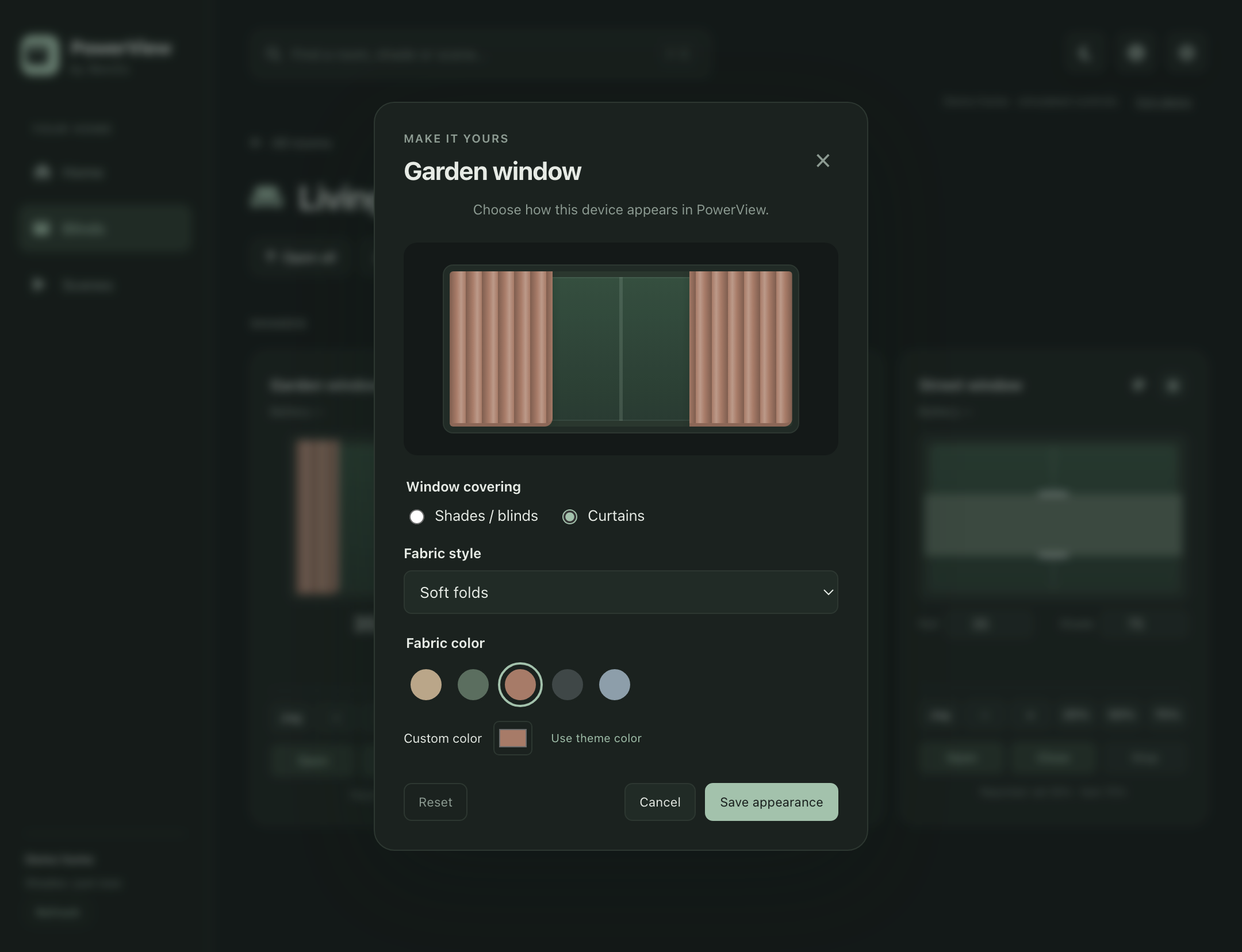
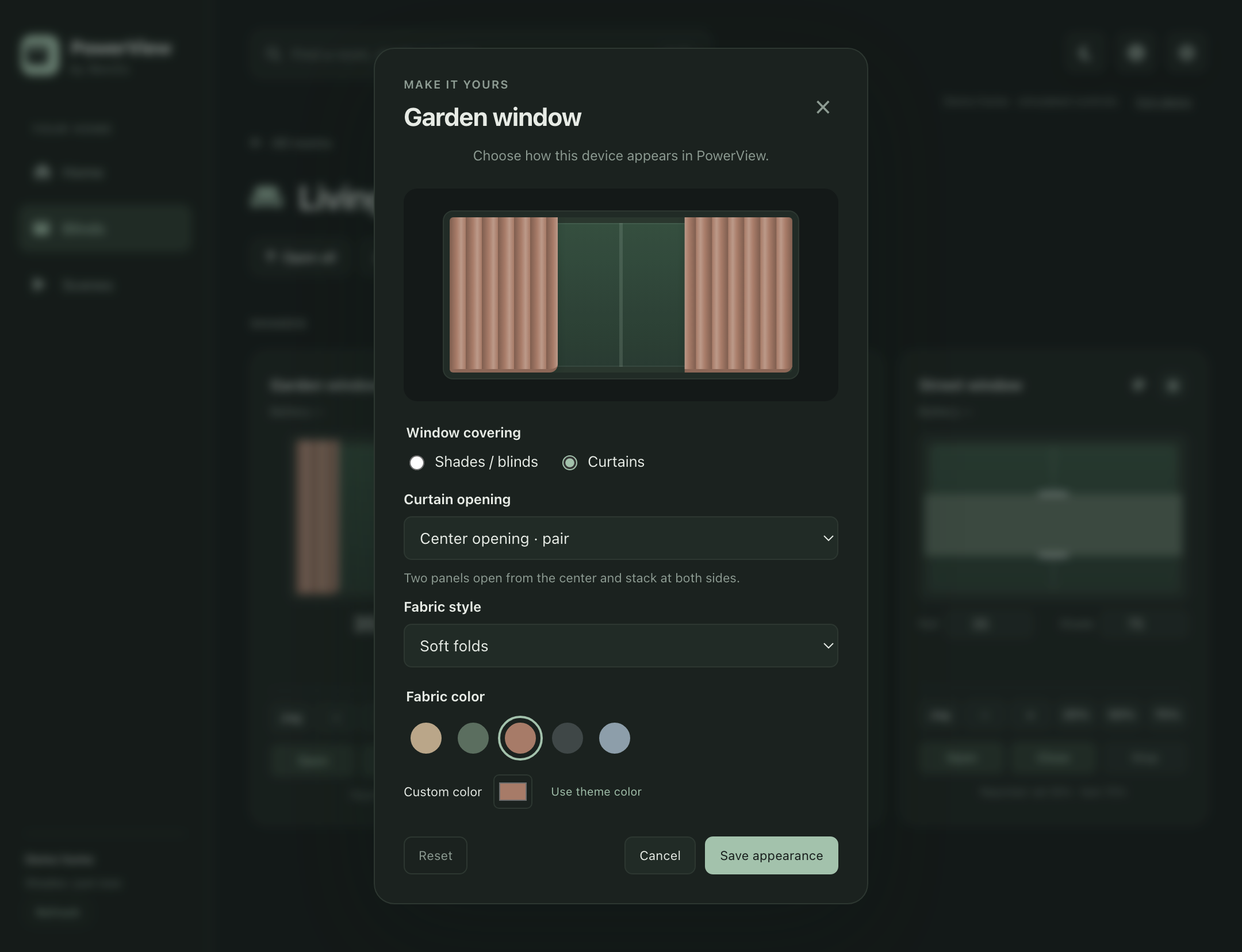
Add single-draw curtains and selectable demo covering types

diff --git a/src/renderer/shade-appearance.js b/src/renderer/shade-appearance.js
@@ -1,5 +1,5 @@
 function defaultShadeAppearance(shade) {
-    return { kind: shade.controls.kind === 'vertical' ? 'curtain' : 'shade', fabric: 'pleated', color: null };
+    return { kind: (shade.demoOriginalKind || shade.controls.kind) === 'vertical' ? 'curtain' : 'shade', fabric: 'pleated', color: null, draw: 'split' };
 }
 function shadeAppearanceFor(shade) {
     return appState?.config.appearances?.[appState.connection.address]?.[shade.id] || defaultShadeAppearance(shade);
@@ -16,14 +16,15 @@ function openShadeAppearance(id) {
         <p class="appearance-intro">Choose how this device appears in PowerView.</p>
         <div class="appearance-preview" aria-label="Appearance preview"><div class="shade-window-inner shade-window-inner--realistic motion-window"><div class="shade-window-glass shade-window-glass--realistic"></div><div class="shade-fabric motion-fabric"></div><div class="curtain-panel curtain-left"></div><div class="curtain-panel curtain-right"></div></div></div>
         <fieldset class="covering-choice"><legend>Window covering</legend><label><input type="radio" name="covering" value="shade"> Shades / blinds</label><label><input type="radio" name="covering" value="curtain"> Curtains</label></fieldset>
-        <p class="appearance-rail-note" hidden>Two-rail shades keep both rail controls in the shade view.</p>
+        <p class="appearance-rail-note" id="appearanceRailNote" hidden></p>
+        <label class="appearance-field curtain-draw-field" for="appearanceDraw">Curtain opening<select id="appearanceDraw"><option value="split">Center opening · pair</option><option value="left">Opens to the left · single curtain</option><option value="right">Opens to the right · single curtain</option></select><span class="appearance-draw-hint"></span></label>
         <label class="appearance-field" for="appearanceFabric">Fabric style<select id="appearanceFabric"><option value="pleated">Pleated</option><option value="roller">Smooth roller</option><option value="slatted">Slatted</option></select></label>
         <fieldset class="appearance-colors"><legend>Fabric color</legend><div class="fabric-swatches"></div><div class="custom-color-row"><label for="appearanceColor">Custom color</label><input type="color" id="appearanceColor"><button type="button" class="theme-fabric-color">Use theme color</button></div></fieldset>
         <p class="appearance-error" role="alert" hidden></p>
         <footer><button type="button" class="appearance-reset">Reset</button><button type="button" class="appearance-cancel">Cancel</button><button type="submit" class="appearance-save">Save appearance</button></footer>
     </form>`;
     dialog.querySelector('h2').textContent = shade.ptName;
-    const preview = dialog.querySelector('.motion-window'), fabric = dialog.querySelector('#appearanceFabric'), color = dialog.querySelector('#appearanceColor');
+    const preview = dialog.querySelector('.motion-window'), fabric = dialog.querySelector('#appearanceFabric'), color = dialog.querySelector('#appearanceColor'), draw = dialog.querySelector('#appearanceDraw');
     const swatches = [['Natural','#c4af92'], ['Sage','#627b69'], ['Clay','#b68471'], ['Charcoal','#465151'], ['Mist','#95a9b4']];
     for (const [name, value] of swatches) {
         const button = document.createElement('button'); button.type = 'button'; button.className = 'fabric-swatch';
@@ -32,20 +33,32 @@ function openShadeAppearance(id) {
     }
     function update() {
         for (const radio of dialog.querySelectorAll('[name="covering"]')) radio.checked = radio.value === draft.kind;
-        preview.dataset.covering = draft.kind; preview.dataset.fabric = draft.fabric;
+        preview.dataset.covering = draft.kind; preview.dataset.fabric = draft.fabric; preview.dataset.draw = draft.draw;
         preview.style.setProperty('--fabric-color', draft.color || '#627b69');
         preview.querySelector('.motion-fabric').style.height = '60%';
-        for (const panel of preview.querySelectorAll('.curtain-panel')) panel.style.width = '30%';
+        const panels = curtainGeometry.panels(60, draft.draw);
+        for (const side of ['left', 'right']) {
+            const panel = preview.querySelector(`.curtain-${side}`); panel.style.width = `${panels[side]}%`; panel.hidden = panels[side] === 0;
+        }
+        dialog.querySelector('.curtain-draw-field').hidden = draft.kind !== 'curtain'; draw.value = draft.draw;
+        dialog.querySelector('.appearance-draw-hint').textContent = draft.draw === 'split'
+            ? 'Two panels open from the center and stack at both sides.' : `One panel opens and stacks on the ${draft.draw}.`;
         fabric.value = draft.fabric; color.value = draft.color || '#627b69';
         const labels = draft.kind === 'curtain' ? ['Soft folds', 'Linen', 'Fine folds'] : ['Pleated', 'Smooth roller', 'Slatted'];
         [...fabric.options].forEach((option,index) => { option.textContent = labels[index]; });
         for (const button of dialog.querySelectorAll('.fabric-swatch')) button.setAttribute('aria-pressed', String(button.dataset.color === draft.color));
     }
-    if (shade.controls.kind === 'dual-rail') {
-        dialog.querySelector('[value="curtain"]').disabled = true; dialog.querySelector('.appearance-rail-note').hidden = false;
+    if ((shade.demoOriginalKind || shade.controls.kind) === 'dual-rail') {
+        const demo = appState?.connection.status === 'demo', note = dialog.querySelector('.appearance-rail-note');
+        dialog.querySelector('[value="curtain"]').disabled = !demo; note.hidden = false;
+        note.textContent = demo
+            ? 'Try either covering in demo. Choose Curtains for curtain controls, or Shades / blinds for both rails.'
+            : 'This device has two moving rails. Fabric styles and colors are available below; curtains need a single opening control.';
+        dialog.querySelector('.covering-choice').setAttribute('aria-describedby', note.id);
     }
     dialog.querySelectorAll('[name="covering"]').forEach(input => input.addEventListener('change', () => { draft.kind = input.value; reset = false; update(); }));
     fabric.addEventListener('change', () => { draft.fabric = fabric.value; reset = false; update(); });
+    draw.addEventListener('change', () => { draft.draw = draw.value; reset = false; update(); });
     color.addEventListener('input', () => { draft.color = color.value; reset = false; update(); });
     dialog.querySelector('.theme-fabric-color').addEventListener('click', () => { draft.color = null; reset = false; update(); });
     dialog.querySelector('.appearance-reset').addEventListener('click', () => { draft = defaultShadeAppearance(shade); reset = true; update(); });

diff --git a/src/renderer/shade-control.js b/src/renderer/shade-control.js
@@ -3,13 +3,14 @@ function createLiveShadeControl(shade, statusEl) {
     const dual = shade.controls.kind === 'dual-rail';
     const appearance = shadeAppearanceFor(shade);
     const curtains = appearance.kind === 'curtain' && !dual;
+    const curtainDraw = appearance.draw || 'split';
     const root = document.createElement('div');
     root.className = dual ? 'shade-unified-dual shade-unified-dual--tile motion-control' : 'shade-single-stack shade-single-tile motion-control';
     root.setAttribute('aria-live', 'off');
     const visual = document.createElement('div'); visual.className = 'shade-window-visual';
     visual.title = `Drag ${curtains ? 'horizontally' : 'vertically'} to choose a target. The fabric follows reported movement.`;
     const inner = document.createElement('div'); inner.className = 'shade-window-inner shade-window-inner--realistic motion-window';
-    inner.dataset.covering = curtains ? 'curtain' : 'shade'; inner.dataset.fabric = appearance.fabric;
+    inner.dataset.covering = curtains ? 'curtain' : 'shade'; inner.dataset.fabric = appearance.fabric; inner.dataset.draw = curtainDraw;
     if (appearance.color) inner.style.setProperty('--fabric-color', appearance.color);
     inner.innerHTML = '<div class="shade-window-glass shade-window-glass--realistic"></div><div class="shade-fabric motion-fabric"></div><div class="curtain-panel curtain-left"></div><div class="curtain-panel curtain-right"></div><div class="motion-target target-primary" hidden></div><div class="motion-target target-secondary" hidden></div>';
     visual.appendChild(inner); root.appendChild(visual);
@@ -74,7 +75,9 @@ function createLiveShadeControl(shade, statusEl) {
         if (valid) {
             const p = clamp(values.primary), s = dual ? Math.min(p, clamp(values.secondary)) : 0;
             fabric.style.top = `${s}%`; fabric.style.height = `${Math.max(0, p - s)}%`;
-            for (const panel of [leftCurtain, rightCurtain]) panel.style.width = `${4 + p * .46}%`;
+            const panels = curtainGeometry.panels(p, curtainDraw);
+            leftCurtain.style.width = `${panels.left}%`; rightCurtain.style.width = `${panels.right}%`;
+            leftCurtain.hidden = panels.left === 0; rightCurtain.hidden = panels.right === 0;
             inner.dataset.physicalPrimary = p.toFixed(2);
             if (dual) {
                 handles.secondary.style.top = `${s}%`; handles.primary.style.top = `${p}%`;
@@ -85,11 +88,12 @@ function createLiveShadeControl(shade, statusEl) {
         const showTarget = !!draft || !!target && Object.keys(target).length > 0;
         const suffix = inputsRow.querySelector('.shade-tile-pct-suffix');
         if (suffix) suffix.textContent = showTarget ? 'target % closed' : '% closed';
-        primaryMarker.hidden = !showTarget; secondaryMarker.hidden = !showTarget || (!dual && !curtains);
+        primaryMarker.hidden = !showTarget; secondaryMarker.hidden = !showTarget || (!dual && (!curtains || curtainDraw !== 'split'));
         if (showTarget) {
             if (curtains) {
-                primaryMarker.style.left = `${4 + chosen.primary * .46}%`;
-                secondaryMarker.style.right = `${4 + chosen.primary * .46}%`;
+                const panels = curtainGeometry.panels(chosen.primary, curtainDraw);
+                primaryMarker.style.left = `${curtainDraw === 'right' ? 100 - panels.right : panels.left}%`;
+                secondaryMarker.style.right = `${panels.right}%`;
             } else {
                 primaryMarker.style.top = `${chosen.primary}%`;
                 secondaryMarker.style.top = `${chosen.secondary}%`;
@@ -155,7 +159,7 @@ function createLiveShadeControl(shade, statusEl) {
     function chooseAt(event) {
         const { rect, axis, side } = drag;
         const fraction = curtains ? (event.clientX - rect.left) / rect.width : (event.clientY - rect.top) / rect.height;
-        const value = curtains ? ((side === 'left' ? fraction : 1 - fraction) * 100 - 4) / .46 : fraction * 100;
+        const value = curtains ? curtainGeometry.positionAt(fraction, curtainDraw, side) : fraction * 100;
         draft[axis] = bounded(value, axis, draft); sync();
     }
     function onMove(event) { if (drag && event.pointerId === drag.id) { event.preventDefault(); chooseAt(event); } }
@@ -195,7 +199,8 @@ function createLiveShadeControl(shade, statusEl) {
         handles[axis].addEventListener('keydown', event => {
             if (!canEdit() || !['ArrowUp', 'ArrowDown', 'ArrowLeft', 'ArrowRight', 'Home', 'End'].includes(event.key)) return;
             event.preventDefault(); draft = { ...selection() };
-            const next = event.key === 'Home' ? 0 : event.key === 'End' ? 100 : draft[axis] + (['ArrowUp','ArrowLeft'].includes(event.key) ? -1 : 1);
+            const horizontalReverse = curtains && curtainDraw === 'right' && ['ArrowLeft','ArrowRight'].includes(event.key) ? -1 : 1;
+            const next = event.key === 'Home' ? 0 : event.key === 'End' ? 100 : draft[axis] + (['ArrowUp','ArrowLeft'].includes(event.key) ? -1 : 1) * horizontalReverse;
             draft[axis] = bounded(next, axis, draft); commit(axis);
         });
     }

diff --git a/src/main/demo-gateway.js b/src/main/demo-gateway.js
@@ -1,9 +1,9 @@
 const { normalizeSnapshot, GatewayError } = require('./gateway-client');
-const { validatePositions } = require('./capabilities');
+const { capabilitiesFor, validatePositions } = require('./capabilities');
 const { project } = require('../shared/shade-motion');
 
 class DemoGateway {
-  constructor({ now = Date.now, latency = 180, fullTravelMs = 8000 } = {}) {
+  constructor({ now = Date.now, latency = 180, fullTravelMs = 8000, appearances = {} } = {}) {
     this.address = 'demo'; this.disposed = false;
     this.now = now; this.latency = latency; this.fullTravelMs = fullTravelMs; this.motions = new Map();
     this.data = {
@@ -24,13 +24,46 @@ class DemoGateway {
         { id: 105, ptName: 'Good night', roomIds: [1, 2, 3, 4] }],
       colors: { colors: ['#8c9c7a', '#c1a37c', '#9e92ad', '#829daa'] }, active: [],
     };
+    this.originalShades = new Map(this.data.shades.map(shade => [String(shade.id), structuredClone(shade)]));
+    this.railPositions = new Map();
+    for (const [id, appearance] of Object.entries(appearances)) {
+      if (this.originalShades.has(id)) this.setAppearance(id, appearance);
+    }
   }
   async wait() {
     await new Promise(resolve => setTimeout(resolve, this.latency));
     if (this.disposed) throw new GatewayError('Connection changed.', 'CANCELLED');
   }
   async identify() { return { address: 'demo', name: 'Demo home', role: 'Demo' }; }
-  async getSnapshot() { await this.wait(); this.sync(); return normalizeSnapshot(structuredClone(this.data), this.address); }
+  snapshot() {
+    this.sync(); const snapshot = normalizeSnapshot(structuredClone(this.data), this.address);
+    for (const shade of snapshot.shades) shade.demoOriginalKind = capabilitiesFor(this.originalShades.get(shade.id)).kind;
+    return snapshot;
+  }
+  async getSnapshot() { await this.wait(); return this.snapshot(); }
+  appearanceChangesType(id, appearance) {
+    const original = this.originalShades.get(id), shade = this.data.shades.find(item => String(item.id) === id);
+    if (!original || !shade || capabilitiesFor(original).kind !== 'dual-rail') return false;
+    return shade.type !== (appearance?.kind === 'curtain' ? 69 : original.type);
+  }
+  setAppearance(id, appearance) {
+    if (!this.appearanceChangesType(id, appearance)) return null;
+    this.sync();
+    const shade = this.data.shades.find(item => String(item.id) === id);
+    clearTimeout(this.motions.get(shade.id)?.timer); this.motions.delete(shade.id);
+    // A demo may change mechanism; preserve the uncovered area when converting.
+    if (appearance?.kind === 'curtain') {
+      this.railPositions.set(id, shade.positions.secondary);
+      shade.positions = { primary: Math.min(1, shade.positions.primary + shade.positions.secondary) };
+      shade.type = 69;
+    } else {
+      const opening = shade.positions.primary;
+      const secondary = Math.min(opening, this.railPositions.get(id) ?? this.originalShades.get(id).positions.secondary);
+      shade.positions = { primary: opening - secondary, secondary };
+      shade.type = this.originalShades.get(id).type;
+    }
+    return this.snapshot().shades.find(item => item.id === id);
+  }
   startEvents(onEvent, onStatus) { this.onEvent = onEvent; onStatus('open'); }
   emit(evt, shade, extra = {}) {
     if (!this.disposed) this.onEvent?.({ evt, id: shade.id, isoDate: new Date(this.now()).toISOString(),

diff --git a/src/main/controller.js b/src/main/controller.js
@@ -22,7 +22,7 @@ class Controller extends EventEmitter {
   async connect(input, { demo = false } = {}) {
     const address = demo ? 'demo' : normalizeAddress(input);
     const attempt = ++this.attempt;
-    const candidate = demo ? new DemoGateway() : this.clientFactory(address);
+    const candidate = demo ? new DemoGateway({ appearances: this.store.get().appearances?.demo }) : this.clientFactory(address);
     if (!this.client) { this.state.connection = { status: 'connecting', address, error: null }; this.publish(); }
     try {
       const identity = await candidate.identify();
@@ -226,11 +226,25 @@ class Controller extends EventEmitter {
     const shade = this.state.snapshot?.shades.find(item => item.id === id);
     if (!shade) throw new Error('This shade is no longer available.');
     const value = appearance === null ? null : cleanAppearance(appearance);
-    if (value?.kind === 'curtain' && shade.controls.kind === 'dual-rail') throw new Error('Two-rail shades need the shade view to keep both rails visible.');
+    const demo = this.state.connection.status === 'demo' && this.client instanceof DemoGateway;
+    if (value?.kind === 'curtain' && shade.controls.kind === 'dual-rail' && !demo) throw new Error('This device has two moving rails. Choose a fabric style or color; curtain controls require a single opening control.');
+    if (demo && this.client.appearanceChangesType(id, value) && Object.keys(this.state.pending).length) {
+      throw new Error('Wait for the demo command to finish sending, then save the covering.');
+    }
     const config = this.store.get(), address = this.state.connection.address;
     config.appearances ||= {}; config.appearances[address] ||= {};
     if (value) config.appearances[address][id] = value; else delete config.appearances[address][id];
-    this.state.config = this.store.save(config); this.publish(); return this.getState();
+    this.state.config = this.store.save(config);
+    const changed = demo ? this.client.setAppearance(id, value) : null;
+    if (changed) {
+      this.state.snapshot.shades[this.state.snapshot.shades.findIndex(item => item.id === id)] = changed;
+      clearTimeout(this.motionTimers.get(id)); this.motionTimers.delete(id);
+      delete this.state.motions[id]; delete this.state.targets[id];
+      delete this.state.feedback[`shade:${id}`]; delete this.state.feedback[`stop:${id}`];
+      this.positionGuards.delete(id); this.eventTimes.delete(id);
+      this.eventRevision = (this.eventRevision || 0) + 1; this.shadeRevisions.set(id, this.eventRevision);
+    }
+    this.publish(); return this.getState();
   }
   resetMotion() {
     for (const timer of this.motionTimers.values()) clearTimeout(timer);

diff --git a/views/index.html b/views/index.html
@@ -120,7 +120,7 @@
             <h2 class="info-help-h2">Blinds</h2>
             <p>Pick a <b>room</b>, then adjust each shade. Rooms can be sorted by gateway order, A–Z, or recent. Drag to choose the dashed target, then release to move. The solid fabric follows movement; between gateway reports its position is marked approximate. The final report settles the graphic. Supported dual shades retain separate top and bottom rail controls.</p>
             <h2 class="info-help-h2">Appearance</h2>
-            <p>Use the <b>palette icon</b> on a shade to choose blinds or curtains, fabric style and color. Curtains drag horizontally; blinds drag vertically. Choices are saved per device and home. Two-rail devices keep the shade view so both rails remain visible. Reset restores the default appearance.</p>
+            <p>Use the <b>palette icon</b> on a shade to choose blinds or curtains, fabric style and color. For curtains, choose a <b>center-opening pair</b> or a <b>single curtain opening to the left or right</b>. Curtains drag horizontally; blinds drag vertically. Choices are saved per device and home. Real two-rail devices keep both rails visible. Demo devices can switch to curtains and back; Reset restores their original controls and appearance.</p>
 
             <h2 class="info-help-h2">Scenes</h2>
             <p>Use <b>Scenes</b> in the navigation to run gateway scenes. Star favorites and use recent chips for quick access.</p>
@@ -145,6 +145,7 @@
 </div>
 
 <script src="../src/shared/shade-motion.js"></script>
+<script src="../src/shared/curtain-geometry.js"></script>
 <script src="../src/renderer/renderer.js"></script>
 <script src="../src/renderer/shade-appearance.js"></script>
 <script src="../src/renderer/shade-control.js"></script>

diff --git a/src/main/config-store.js b/src/main/config-store.js
@@ -4,8 +4,9 @@ const { normalizeAddress } = require('./gateway-client');
 const defaults = () => ({ schemaVersion: 2, ipAddress: '', theme: 'light', closeToTray: false, favorites: {}, recent: {}, appearances: {}, roomSort: 'default', prefsMigrated: false });
 function cleanAppearance(value) {
   if (!value || !['shade', 'curtain'].includes(value.kind) || !['pleated', 'roller', 'slatted'].includes(value.fabric)
-    || value.color !== null && !/^#[a-f0-9]{6}$/i.test(value.color)) throw new Error('Choose a valid shade style and fabric color.');
-  return { kind: value.kind, fabric: value.fabric, color: value.color };
+    || value.color !== null && !/^#[a-f0-9]{6}$/i.test(value.color)
+    || value.draw !== undefined && !['split', 'left', 'right'].includes(value.draw)) throw new Error('Choose a valid shade style, curtain opening and fabric color.');
+  return { kind: value.kind, fabric: value.fabric, color: value.color, draw: value.draw ?? 'split' };
 }
 function cleanConfig(raw) {
   if (!raw || typeof raw !== 'object' || Array.isArray(raw)) throw new Error('Invalid settings');

diff --git a/src/shared/curtain-geometry.js b/src/shared/curtain-geometry.js
@@ -1,0 +1,17 @@
+(function (root, factory) {
+    if (typeof module === 'object' && module.exports) module.exports = factory();
+    else root.curtainGeometry = factory();
+})(typeof window === 'object' ? window : globalThis, function () {
+    const stack = 4;
+    function panels(closed, draw = 'split') {
+        const value = Math.max(0, Math.min(100, closed));
+        if (draw === 'left') return { left: stack + value * .96, right: 0 };
+        if (draw === 'right') return { left: 0, right: stack + value * .96 };
+        return { left: stack + value * .46, right: stack + value * .46 };
+    }
+    function positionAt(fraction, draw = 'split', side = 'left') {
+        const fromRight = draw === 'right' || draw === 'split' && side === 'right';
+        return ((fromRight ? 1 - fraction : fraction) * 100 - stack) / (draw === 'split' ? .46 : .96);
+    }
+    return { panels, positionAt };
+});

diff --git a/assets/shade-controls.css b/assets/shade-controls.css
@@ -39,6 +39,8 @@
 .covering-choice input { accent-color: var(--accent); }
 .covering-choice label:has(:disabled) { opacity: .5; cursor: default; }
 .appearance-field { display: flex; flex-direction: column; gap: 8px; }
+.appearance-field[hidden], .curtain-panel[hidden] { display: none; }
+.appearance-draw-hint { color: var(--text-muted); font-size: 11px; font-weight: 400; line-height: 1.4; }
 .appearance-field select { padding: 9px; border: 1px solid var(--border); background: var(--surface-hover); color: var(--text); border-radius: 7px; }
 .fabric-swatches { display: flex; gap: 10px; padding: 4px; }
 .fabric-swatch { width: 31px; height: 31px; border-radius: 50%; border: 2px solid var(--surface); cursor: pointer; }

diff --git a/docs/VALIDATION.md b/docs/VALIDATION.md
@@ -3,11 +3,11 @@
 The supplied local application is the baseline for this work. The corrected [evaluation](EVALUATION.md) distinguishes its existing features from remaining defects and future ideas.
 
 - `npm run check`: all application, script and test JavaScript parses; referenced UI resources exist.
-- `npm test`: 30 focused tests pass. Coverage includes finite requests, HTTP failures, malformed responses, cancellation, secondary-gateway rejection, per-home favorites, configuration recovery and legacy migration, partial group failures, Stop during movement, SSE chunking and subnet boundaries. Motion tests cover stale reads, late acknowledgments, event ordering, missing/invalid travel times, connection loss, simulated travel, intermediate Stop and per-home appearance persistence without motor commands.
-- `npm run smoke`: 20 native Electron checks pass on macOS arm64 with Electron 44.4.1. The test uses a temporary profile, demo data and a loopback HTTP/SSE fixture. It covers renderer isolation, percentage presets, numeric entry, stable drag targets during refresh, pointer cancellation, continuous demo travel, intermediate Stop, saved curtain appearance, horizontal curtain dragging, type 9 dual rails, keyboard controls, pinning, scene activation, navigation races, modal focus, dark theme, narrow/zoomed layouts, command search and Escape behavior, HTTP errors, acknowledgments, SSE updates and invalid IDs. The HTTP/SSE fixture also verifies travel-time animation, stale-read protection and settlement at the final reported position. No renderer errors were recorded. [Machine-readable results](native-smoke-results.json).
+- `npm test`: 34 focused tests pass. Coverage includes finite requests, HTTP failures, malformed responses, cancellation, secondary-gateway rejection, per-home favorites, configuration recovery and legacy migration, partial group failures, Stop during movement, SSE chunking and subnet boundaries. Motion tests cover stale reads, late acknowledgments, event ordering, missing/invalid travel times, connection loss, simulated travel, intermediate Stop and per-home appearance persistence without motor commands. Curtain coverage includes both single-draw directions, paired geometry, existing-settings migration, demo mechanism changes and restoration, persistence across reconnection, pending-command handling and preservation of real hardware controls.
+- `npm run smoke`: 23 native Electron checks pass on macOS arm64 with Electron 44.4.1. The test uses a temporary profile, demo data and a loopback HTTP/SSE fixture. It covers renderer isolation, percentage presets, numeric entry, stable drag targets during refresh, pointer cancellation, continuous demo travel, intermediate Stop, saved curtain appearance, horizontal curtain dragging, type 9 dual rails, keyboard controls, pinning, scene activation, navigation races, modal focus, dark theme, narrow/zoomed layouts, command search and Escape behavior, HTTP errors, acknowledgments, SSE updates and invalid IDs. Bedroom left explicitly switches to curtains, tests both single-draw directions and keyboard movement, and resets to two rail controls. The HTTP/SSE fixture also verifies travel-time animation, stale-read protection and settlement at the final reported position. No renderer errors were recorded. [Machine-readable results](native-smoke-results.json).
 - `npm audit`: the upgraded lockfile had zero reported vulnerabilities when checked on 16 September 2026; dependencies are unchanged in this increment. The original local baseline had 27 affected package entries; its audit is retained separately. Audit counts are not a security certification.
 - `npm run package`: generated a macOS arm64 app bundle under `release/PowerView-darwin-arm64/PowerView.app`. It uses local resources and an ASAR archive. No signed/notarized installer is being published.
-- Native [Home](screenshots/home-light.png), [dark room](screenshots/room-dark.png), [narrow room](screenshots/room-narrow.png), [moving shade](screenshots/shade-moving.png) and [appearance editor](screenshots/appearance-editor.png) captures were inspected.
+- Native [Home](screenshots/home-light.png), [dark room](screenshots/room-dark.png), [narrow room](screenshots/room-narrow.png), [moving shade](screenshots/shade-moving.png), [appearance editor](screenshots/appearance-editor.png) and [single-draw curtain editor](screenshots/single-draw-editor.png) captures were inspected.
 
 The original source directory remains unchanged. The app name and user-data identity remain PowerView. The legacy prefs file is retained during migration. Demo launched with `--demo` uses a separate profile; the preview opened for review uses an explicit temporary/workspace profile.
 
@@ -15,4 +15,4 @@ Physical movement has not been tested. Animation between gateway reports is an e
 
 Routes and capability mappings were cross-checked against the [aio-powerview-api reference](https://github.com/sander76/aio-powerview-api/blob/master/aiopvapi/resources/shade.py), its [scene resource](https://github.com/sander76/aio-powerview-api/blob/master/aiopvapi/resources/scene.py) and [Home Assistant integration documentation](https://www.home-assistant.io/integrations/hunterdouglas_powerview/). The reference is guidance rather than proof of hardware compatibility. Renderer isolation follows [Electron's guidance](https://www.electronjs.org/docs/latest/tutorial/security).
 
-The draft is version `1.1.0-beta.2` to make its field-validation status clear. The pull request integrates the current local app, reliability work, desktop redesign, smoother movement and per-device appearance settings. Scheduling, scene previews and automation remain future work.
+The draft is version `1.1.0-beta.3` to make its field-validation status clear. The pull request integrates the current local app, reliability work, desktop redesign, smoother movement, per-device appearance settings and single-draw curtains. Scheduling, scene previews and automation remain future work.

diff --git a/docs/MOTION_AND_APPEARANCE.md b/docs/MOTION_AND_APPEARANCE.md
@@ -14,13 +14,16 @@ Demo mode simulates travel and emits the same motion-event shape. It supports in
 
 ## Appearance settings
 
-Select the palette button beside a shade's name. Choose shades/blinds or split curtains, then a fabric style and color. The preview updates immediately; Save appearance applies it to the card and persists it for that device and gateway. Cancel leaves the previous appearance intact. Reset restores the default when saved.
+Select the palette button beside a shade's name. Choose shades/blinds or curtains, then a fabric style and color. Curtains offer a center-opening pair or a single-draw curtain that opens and stacks on the left or right. The preview updates immediately; Save appearance applies it to the card and persists it for that device and gateway. Cancel leaves the previous appearance intact. Reset restores the default when saved. Existing saved curtains default to the center-opening pair.
 
 - Shades/blinds: pleated, smooth roller or slatted fabric; vertical target dragging.
-- Curtains: soft folds, linen or fine folds; horizontal target dragging with both panels moving together.
+- Curtains: soft folds, linen or fine folds; horizontal dragging and animation follow the chosen opening. A pair moves both panels together; a single curtain spans the window from its selected stacking side. Left/right arrow keys follow the fabric edge, while Home opens fully and End closes fully.
 - Colors: Natural, Sage, Clay, Charcoal and Mist, a custom color picker, or the theme color.
-- Two-rail shades: texture and color choices retain both rail controls; curtain mode is unavailable for these devices.
+- Real two-rail shades: texture and color choices retain both rail controls. The editor explains why curtain controls are unavailable for this mechanism.
+- Demo two-rail shades, including Bedroom left: Curtains switches the simulated mechanism to a curtain, preserving the uncovered area. Shades / blinds or Reset restores both rail controls. The choice survives restarting demo. Pending commands must finish sending before a mechanism switch; active travel is cleared when switching mechanisms.
 
-Appearance changes affect the drawing only. They send no motor command and do not change capability validation or the gateway's device type. The editor is available on the visual standard, top-down, vertical and dual-rail controls; tilt-only and overlapped mechanisms retain their existing controls. Single-sided curtains and additional stacking arrangements are possible future additions.
+Appearance changes send no motor command and do not change a real gateway's device type or capability validation. The demo may change its simulated mechanism to let every demo shade try curtain controls. The editor is available on the visual standard, top-down, vertical and dual-rail controls; tilt-only and overlapped mechanisms retain their existing controls.
 
 ![Appearance editor](screenshots/appearance-editor.png)
+
+![Single-draw curtain editor on Bedroom left](screenshots/single-draw-editor.png)

diff --git a/docs/EVALUATION.md b/docs/EVALUATION.md
@@ -104,7 +104,7 @@ Scheduling, automatic glare control and natural-language control should follow c
 
 The review branch now includes the new layout and light/dark visual system, compact shade controls, a Home dashboard with pinned shades and existing favorite scenes, whole-home shortcuts, room shortcuts, and name search for rooms, shades and scenes. It also includes the isolation, request handling, configuration recovery, percentage, group-result and navigation fixes described above. Home, background control, demo and search in the idea table are now implemented in this branch. The table records the original roadmap; scene previews, saved custom groups, activity history and automation remain future ideas. See the validation record for tested behavior and hardware limits.
 
-The 17 September motion update addresses the reported jump between old and selected positions. A separate dashed target remains stable while dragging; the fabric follows reported movement or an explicitly approximate gateway travel-time animation. Stale reads cannot rewind active travel, and final reports confirm settlement. Demo now simulates travel and intermediate Stop. A palette editor adds per-device shades/blinds or curtains, textures and custom colors with a live preview and saved preferences per home. Two-rail shades retain both rails and support texture/color changes. These behaviors pass 30 core tests and 20 native Electron checks, including a loopback HTTP/SSE fixture. Exact synchronization with real hardware remains unverified. See [movement and appearance](MOTION_AND_APPEARANCE.md) and the [validation record](VALIDATION.md).
+The 17 September motion update addresses the reported jump between old and selected positions. A separate dashed target remains stable while dragging; the fabric follows reported movement or an explicitly approximate gateway travel-time animation. Stale reads cannot rewind active travel, and final reports confirm settlement. Demo now simulates travel and intermediate Stop. A palette editor adds per-device shades/blinds or curtains, textures and custom colors with a live preview and saved preferences per home. Curtains can open from the center as a pair, or use a single panel opening to the left or right. Real two-rail shades retain both rails and support texture/color changes. Demo two-rail shades, including Bedroom left, can switch to curtains and back, with Reset restoring their original controls. These behaviors pass 34 core tests and 23 native Electron checks, including a loopback HTTP/SSE fixture. Exact synchronization with real hardware remains unverified. See [movement and appearance](MOTION_AND_APPEARANCE.md) and the [validation record](VALIDATION.md).
 
 **Evidence and limits**
 

diff --git a/docs/IMPLEMENTATION_STATUS.md b/docs/IMPLEMENTATION_STATUS.md
@@ -4,7 +4,7 @@ The original source folder and its uncommitted changes remain untouched. A basel
 
 Implemented: shared gateway state, restricted Electron bridge, finite requests and cancellation, per-home preferences and legacy migration, capability-aware control, consistent closed percentages, group failure results, immediate Stop, Home/pinned shades, isolated demo, direct tray scene execution, local icons, persistent navigation and modal/rail keyboard improvements. The redesign adds a desktop sidebar, warm neutral and forest themes, compact textured shade illustrations, whole-home Home actions, room shortcuts, prioritized pinned controls and keyboard search across rooms, shades and scenes. Narrow windows use bottom navigation.
 
-The 17 September update separates draggable targets from the movement graphic, guards against stale refreshes and late acknowledgments, and animates travel from gateway motion events when a travel time is supplied. Estimated progress is labeled; final reports settle the position. Demo mode now simulates travel, retargeting and intermediate Stop. A per-device appearance editor adds shades/blinds or split curtains, fabric textures, preset/custom colors, preview and reset, persisted separately for each home. Two-rail devices keep both rail controls and offer fabric/color choices. See MOTION_AND_APPEARANCE.md for behavior and limits. Validation passes 30 core tests and 20 native Electron checks.
+The 17 September update separates draggable targets from the movement graphic, guards against stale refreshes and late acknowledgments, and animates travel from gateway motion events when a travel time is supplied. Estimated progress is labeled; final reports settle the position. Demo mode now simulates travel, retargeting and intermediate Stop. A per-device appearance editor adds shades/blinds or curtains, fabric textures, preset/custom colors, preview and reset, persisted separately for each home. Curtains can use a center-opening pair or a single-draw panel opening to the left or right. Real two-rail devices retain both rail controls and offer fabric/color choices; demo two-rail devices can switch to curtain controls and back. See MOTION_AND_APPEARANCE.md for behavior and limits. Validation passes 34 core tests and 23 native Electron checks.
 
 Retained: visual shade dragging and dual grips, Jog, fine adjustment, scenes, favorites, recents, room sorting, room color indicators/icons, theme switching, connection freshness, live events, manual setup, discovery, Swagger tools and macOS build configuration. The supplied screenshot's large white panel and glossy blue graphics have been replaced with the new layout and visual treatment.
 
